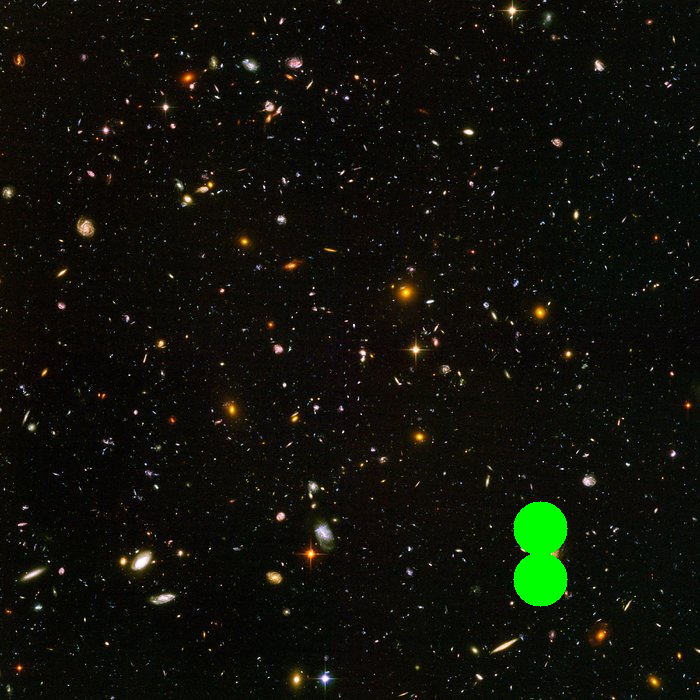
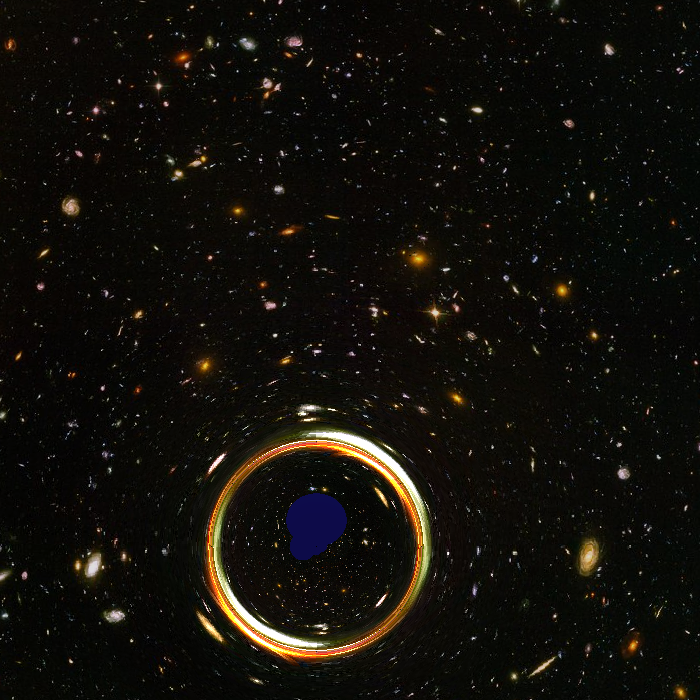
More or less stable

diff --git a/Image Processer Framework/widgets.py b/Image Processer Framework/widgets.py
@@ -5,8 +5,11 @@ from PIL import Image as PIL_Image #needed as we now have multiple libraries tha
 import numpy as np
 from kivy.core.window import Window
 from kivy.uix.widget import Widget
+from kivy.uix.boxlayout import BoxLayout
+from kivy.uix.button import Button
 import os
 import threading
+import time
 
 folderIn = os.getcwd()
 folderOut = "./data_output/"
@@ -25,6 +28,7 @@ class Widgets(Widget):
     def sourceSelected(self, directory, filename):
         loadMetadata.inDirectory = directory
         loadMetadata.inFilename = filename
+        #print("Source file selected: " + directory + filename)
         self.showPreImage()
 
     def selectDestination(self):
@@ -35,6 +39,7 @@ class Widgets(Widget):
     def destinationSelected(self, directory, filename):
         loadMetadata.outDirectory = directory
         loadMetadata.outFilename = filename
+        #print("Destination file selected: " + directory + filename)
         self.showPostImage()
 
     # Displays the image selected in self.uploadImage().
@@ -45,9 +50,11 @@ class Widgets(Widget):
     
     # Displays the modified image.
     def showPostImage(self):
+        print("showing")
         self.ids.post_processed_image_label.opacity = 1
         self.ids.post_processed_image.source = loadMetadata.outDirectory + loadMetadata.outFilename
         self.ids.post_processed_image.opacity = 1
+        self.ids.post_processed_image.reload()
 
     # Loads the requested file and stores it as a numpy array of pixels (format may vary).
     # There is an error popup in case of exceptions.
@@ -77,16 +84,17 @@ class Widgets(Widget):
     # Requests loading of data using the the stored filename.
     # This function is called by self.processImage().
     def loadImage(self):
-        self.load(loadMetadata.sourceFile)
-        self.imageLoaded = True
+        success = self.load(loadMetadata.inDirectory + loadMetadata.inFilename)
+        self.imageLoaded = success
 
     # Requests saving of data.
     # This function is called by self.processImage().
     def saveImage(self):
-        success = self.save(folderOut + filename) # change to actual file path
+        success = self.save(loadMetadata.outDirectory + loadMetadata.outFilename)
         if success:
             self.unsavedData = False
-
+    def test(self):
+        print("test")
     # MDS = Modify, Display, Save
     # This function is completed in a separate thread.
     def MDS(self):
@@ -96,24 +104,33 @@ class Widgets(Widget):
             if self.imageLoaded:
                 self.modifiedImageArray = gravLens(self.imageArray, loadMetadata.pixelCoordinates[1], loadMetadata.pixelCoordinates[0], 0.15)
                 self.modifiedImage = PIL_Image.fromarray(self.modifiedImageArray)
-                self.showPostImage()
                 self.saveImage()
+                self.startPopup.end()
         except Exception as error:
+            self.startPopup.end()
             self.errorPopup = ErrorPopup(text="Error in processing image:\n" + type(error).__name__ + ":\n" + error.__str__())
             self.errorPopup.show()
         else:
-            self.endPopup = ImageProcessingEndPopup("Image Processor")
-            self.endPopup.show()
-        finally:
-            self.startPopup.end()
+            if self.imageLoaded:
+                def on_dismiss(instance):
+                    self.showPostImage()
+                box = BoxLayout(orientation='vertical')
+                box.add_widget(Label(text="Process Finished."))
+                button = Button(text='Okay')
+                box.add_widget(button)
+                self.endPopup = Popup(title="Image Processor", content=box, size_hint=(None, None), 
+                                            size=(600, 200))
+                button.bind(on_release=self.endPopup.dismiss)
+                self.endPopup.bind(on_dismiss=on_dismiss)
+                self.endPopup.open()
 
     # Responsible for processing the image when the user requests such from the main GUI.
     # This function both loads the file selected from self.uploadImage() using self.loadImage()
     # and saves it upon completion using self.saveImage().
     def processImage(self):
         self.startPopup = ImageProcessingStartPopup("Image Processor")
+        self.startPopup.bind(on_dismiss=self.test)
         self.startPopup.show()
-
         mds = threading.Thread(target=self.MDS, args=(), daemon=True)
         mds.start()
             

diff --git a/Image Processer Framework/popup.py b/Image Processer Framework/popup.py
@@ -69,7 +69,7 @@ class FileSelector(Popup):
 
     def saveSelection(self, selection = ' '):
         directory, filename = os.path.split(selection)
-        directory += '/'
+        directory += os.sep
         self.onSelection(directory, filename)
 
     def __init__(self, onSelection, **var):
